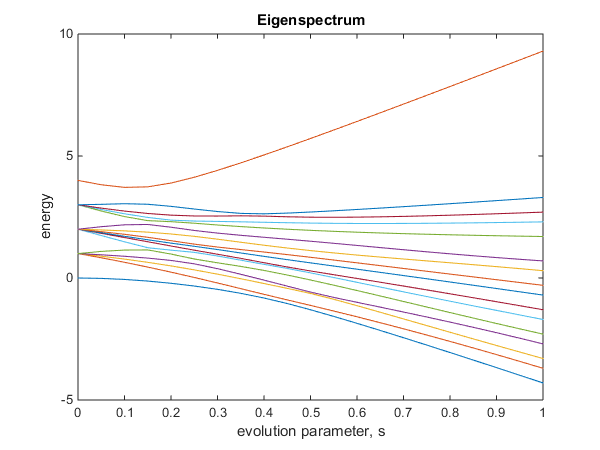
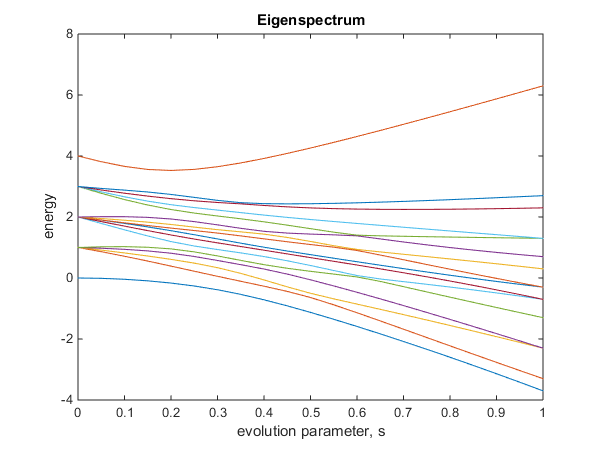
Clean up of ising_hamiltonian

diff --git a/matlab/eigenspectrum/ising_hamiltonian.m b/matlab/eigenspectrum/ising_hamiltonian.m
@@ -7,67 +7,34 @@ function [ out ] = ising_hamiltonian( h, Jzz, Jxx, Jzzz, Jxxx )
     % Number of qubits
     n = max([length(h),length(Jzz),length(Jxx),length(Jzzz),length(Jxxx)]);
     
-    % Sum up local field terms, h
+    % Sum up all the required terms
     h_term = 0;
-    if length(h) > 1
-        for i=1:n
+    jzz_term = 0;
+    jxx_term = 0;
+    jzzz_term = 0;
+    jxxx_term = 0;
+    % Loop though dimension 1
+    for i=1:n
+        if length(h) > 1
             h_term = h_term + h(i)*recursive_kron( n, [i], [sigmaZ] );
         end
-    end
-    
-    % Sum up Jzz coupling terms
-    jzz_term = 0;
-    if length(Jzz) > 1
-        for i=1:n
-            for k=i:n
-                % skip if i==k
-                if i ~= k
-                    jzz_term = jzz_term + Jzz(i,k)*recursive_kron( n, [i,k], [sigmaZ,sigmaZ] );
-                end 
+        % Loop though dimension 2
+        for k=i+1:n
+            if length(Jzz) > 1
+                jzz_term = jzz_term + Jzz(i,k)*recursive_kron( n, [i,k], [sigmaZ,sigmaZ] );
             end
-        end
-    end
-    
-    % Sum up Jxx coupling terms
-    jxx_term = 0;
-    if length(Jxx) > 1
-        for i=1:n
-            for k=i:n
-                % skip if i==k
-                if i ~= k
-                    jxx_term = jxx_term + Jxx(i,k)*recursive_kron( n, [i,k], [sigmaX,sigmaX] );
-                end 
+            if length(Jxx) > 1
+                jxx_term = jxx_term + Jxx(i,k)*recursive_kron( n, [i,k], [sigmaX,sigmaX] );
             end
-        end
-    end
-    
-    % Sum up Jzzz coupling terms
-    jzzz_term = 0;
-    if length(Jzzz) > 1
-        for i=1:n
-            for k=i:n
-                for h=k:n
-                    % skip if i==k or i==h or k==h
-                    if (i ~= k) && (i ~= h) && (k ~= h)
-                        jzzz_term = jzzz_term + Jzzz(i,k,h)*recursive_kron( n, [i,k,h], [sigmaZ,sigmaZ,sigmaZ] );
-                    end
-                end 
-            end
-        end
-    end
-    
-    % Sum up Jxxx coupling terms
-    jxxx_term = 0;
-    if length(Jxxx) > 1
-        for i=1:n
-            for k=i:n
-                for h=k:n
-                    % skip if i==k or i==h or k==h
-                    if (i ~= k) && (i ~= h) && (k ~= h)
-                        jxxx_term = jxxx_term + Jxxx(i,k,h)*recursive_kron( n, [i,k,h], [sigmaX,sigmaX,sigmaX] );
-                    end
-                end 
-            end
+            % Loop though dimension 3
+            for l=k+1:n
+                if length(Jzzz) > 1
+                    jzzz_term = jzzz_term + Jzzz(i,k,l)*recursive_kron( n, [i,k,l], [sigmaZ,sigmaZ,sigmaZ] );
+                end
+                if length(Jxxx) > 1
+                    jxxx_term = jxxx_term + Jxxx(i,k,l)*recursive_kron( n, [i,k,l], [sigmaX,sigmaX,sigmaX] );
+                end
+            end 
         end
     end
 

diff --git a/matlab/eigenspectrum/examples/example_eigenspectrum.m b/matlab/eigenspectrum/examples/example_eigenspectrum.m
@@ -6,7 +6,7 @@ addpath('../');
 % Array of h coef for local fields
 h = [1,0.5,0.8,1];
 % Matrix of J coef for Z-Z, X-X, Z-Z-Z and X-X-X couplings
-Jzz  = [[0,1,0,0];[1,0,0,0];[1,1,0,0];[1,0,1,0]];
+Jzz  = [[0,1,0,0];[0,0,0,1];[0,0,0,1];[0,0,0,0]];
 Jxx  = 0; % Couplings turned off
 Jzzz = 0; % Couplings turned off
 Jxxx = 0; % Couplings turned off

diff --git a/matlab/eigenspectrum/README.md b/matlab/eigenspectrum/README.md
@@ -24,7 +24,7 @@ addpath('../');
 % Array of h coef for local fields
 h = [1,0.5,0.8,1];
 % Matrix of J coef for Z-Z, X-X, Z-Z-Z and X-X-X couplings
-Jzz  = [[0,1,0,0];[1,0,0,0];[1,1,0,0];[1,0,1,0]];
+Jzz  = [[0,1,0,0];[0,0,0,1];[0,0,0,1];[0,0,0,0]];
 Jxx  = 0; % Couplings turned off
 Jzzz = 0; % Couplings turned off
 Jxxx = 0; % Couplings turned off
@@ -34,7 +34,7 @@ eigenvalues = ...
 eigenspectrum(  transverse_hamiltonian(4),...                   % Starting (transverse) Hamiltonian
                 ising_hamiltonian(h, Jzz, Jxx, Jzzz, Jxxx), ... % Finishing (Ising) Hamiltonian
                 21);                                            % Steps
-
+            
 % Plot eigenspectrum ('2' means both plots)
 plot_eigenspectrum(eigenvalues, 2);
 % Calculate and display minimum gap

diff --git a/matlab/eigenspectrum/examples/README.md b/matlab/eigenspectrum/examples/README.md
@@ -13,7 +13,7 @@ addpath('../');
 % Array of h coef for local fields
 h = [1,0.5,0.8,1];
 % Matrix of J coef for Z-Z, X-X, Z-Z-Z and X-X-X couplings
-Jzz  = [[0,1,0,0];[1,0,0,0];[1,1,0,0];[1,0,1,0]];
+Jzz  = [[0,1,0,0];[0,0,0,1];[0,0,0,1];[0,0,0,0]];
 Jxx  = 0; % Couplings turned off
 Jzzz = 0; % Couplings turned off
 Jxxx = 0; % Couplings turned off
@@ -23,7 +23,7 @@ eigenvalues = ...
 eigenspectrum(  transverse_hamiltonian(4),...                   % Starting (transverse) Hamiltonian
                 ising_hamiltonian(h, Jzz, Jxx, Jzzz, Jxxx), ... % Finishing (Ising) Hamiltonian
                 21);                                            % Steps
-
+            
 % Plot eigenspectrum ('2' means both plots)
 plot_eigenspectrum(eigenvalues, 2);
 % Calculate and display minimum gap
